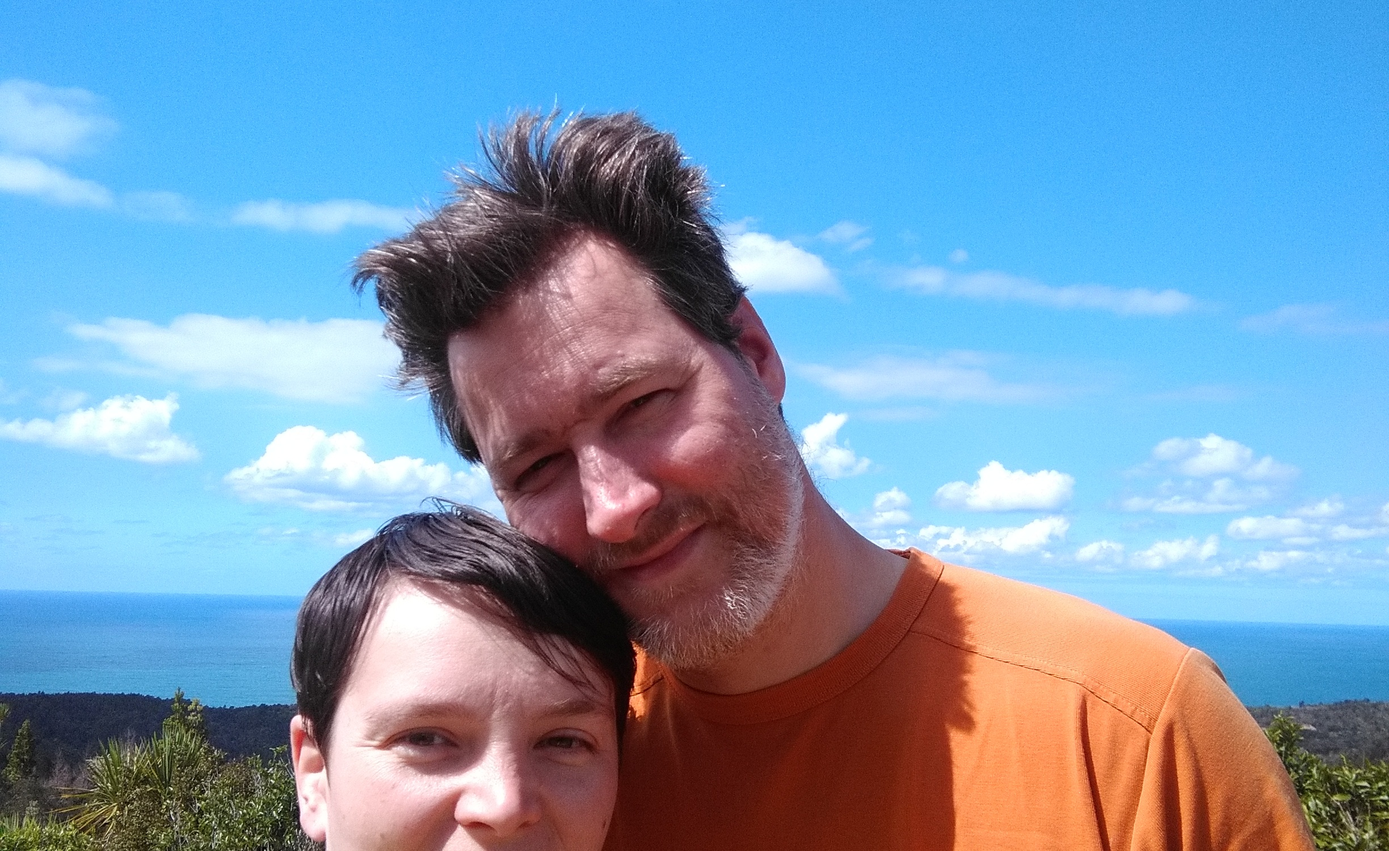
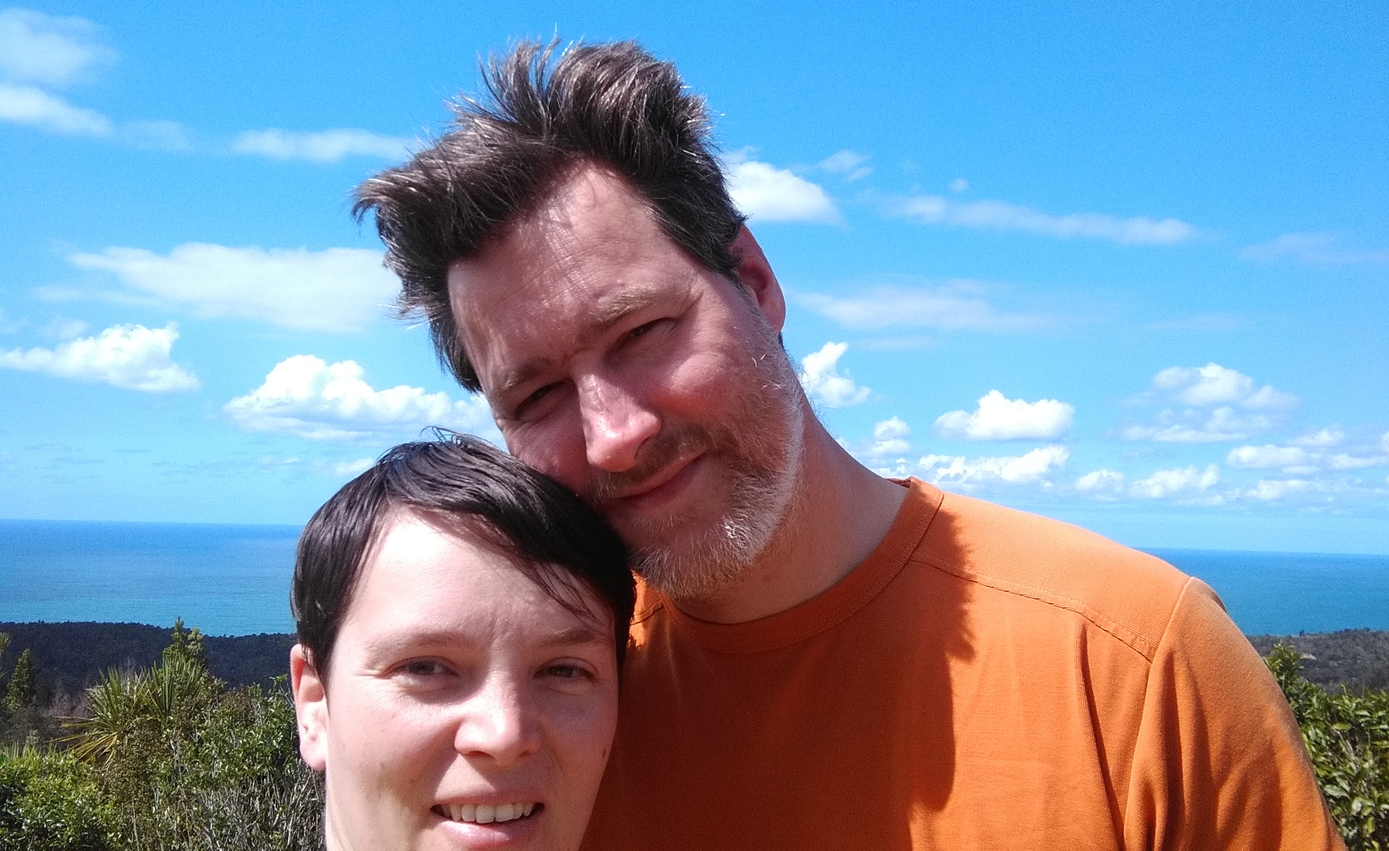
Meer-Selfie: Neu gecroppt mit beiden Gesichtern zentriert
Crop von y=1000 bis y=2500 im Original (vorher y=875-2375, Kristin
abgeschnitten). object-position: center 55% verteilt die minimale
Restbeschneidung auf breiten Screens gleichmäßig auf beide Gesichter.

diff --git a/index.html b/index.html
@@ -67,7 +67,7 @@
     }
 
     /* Per-Bild Positionierung: Motive (Köpfe/Katzen) sichtbar halten */
-    .slide:nth-child(1) img { object-position: center 75%; }
+    .slide:nth-child(1) img { object-position: center 55%; }
     .slide:nth-child(2) img { object-position: center 25%; }
     .slide:nth-child(3) img { object-position: center 45%; }
     .slide:nth-child(4) img { object-fit: contain; background-color: #2c3e50; }
